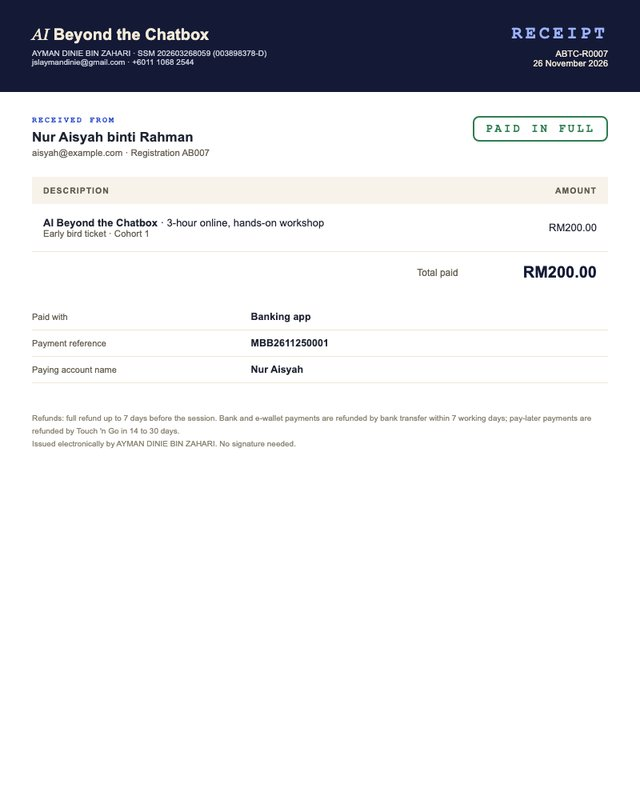
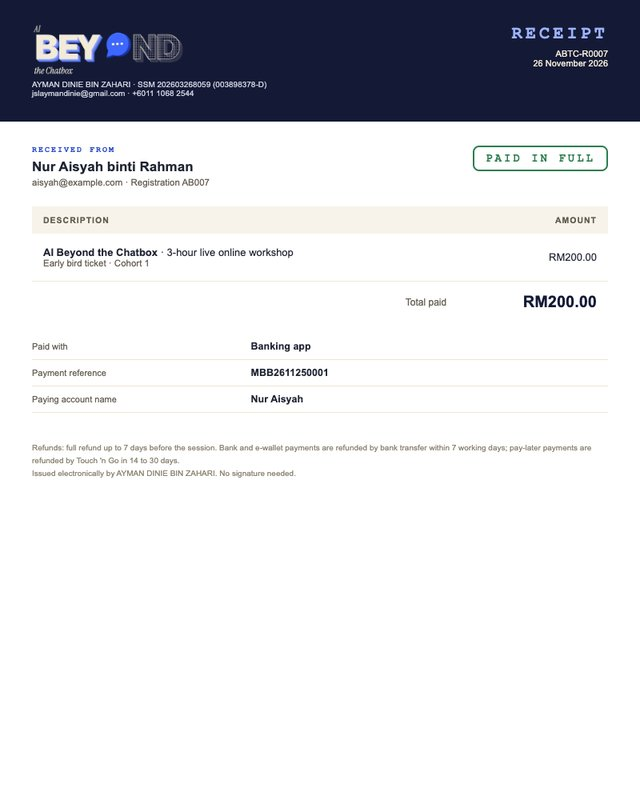
Use the BEYOND wordmark in site header and footer, emails and receipt; fix Designs & links spacing

diff --git a/index.html b/index.html
@@ -616,6 +616,8 @@ footer .sel{color:var(--cream)}
   .js .rv,.js .in-a{opacity:1;transform:none}.js .split .wd>span{transform:none}
   .statement,.lap{height:auto}.sticky{position:static;height:auto;padding-block:96px}.lap{--p:1!important}.say .w{opacity:1!important}.sstep{opacity:1}
 }
+.brand.logo{display:block;line-height:0}.brand.logo img{height:auto;display:block}
+@media (max-width:420px){header.top .brand.logo img{width:124px}}
 </style></head><body>
 <script>document.documentElement.classList.add('js')</script>
 <svg width="0" height="0" style="position:absolute" aria-hidden="true"><defs>
@@ -652,7 +654,7 @@ footer .sel{color:var(--cream)}
 <symbol id="i-download" viewBox="0 0 24 24"><path d="M21 15v4a2 2 0 0 1-2 2H5a2 2 0 0 1-2-2v-4" /> <polyline points="7 10 12 15 17 10" /> <line x1="12" x2="12" y1="15" y2="3" /></symbol><symbol id="i-mail" viewBox="0 0 24 24"><rect width="20" height="16" x="2" y="4" rx="2" /> <path d="m22 7-8.97 5.7a1.94 1.94 0 0 1-2.06 0L2 7" /></symbol><symbol id="i-ext" viewBox="0 0 24 24"><path d="M7 7h10v10" /> <path d="M7 17 17 7" /></symbol><symbol id="i-user" viewBox="0 0 24 24"><circle cx="12" cy="8" r="5" /> <path d="M20 21a8 8 0 0 0-16 0" /></symbol><symbol id="i-whatsapp" viewBox="0 0 24 24"><path fill="currentColor" stroke="none" d="M17.472 14.382c-.297-.149-1.758-.867-2.03-.967-.273-.099-.471-.148-.67.15-.197.297-.767.966-.94 1.164-.173.199-.347.223-.644.075-.297-.15-1.255-.463-2.39-1.475-.883-.788-1.48-1.761-1.653-2.059-.173-.297-.018-.458.13-.606.134-.133.298-.347.446-.52.149-.174.198-.298.298-.497.099-.198.05-.371-.025-.52-.075-.149-.669-1.612-.916-2.207-.242-.579-.487-.5-.669-.51-.173-.008-.371-.01-.57-.01-.198 0-.52.074-.792.372-.272.297-1.04 1.016-1.04 2.479 0 1.462 1.065 2.875 1.213 3.074.149.198 2.096 3.2 5.077 4.487.709.306 1.262.489 1.694.625.712.227 1.36.195 1.871.118.571-.085 1.758-.719 2.006-1.413.248-.694.248-1.289.173-1.413-.074-.124-.272-.198-.57-.347m-5.421 7.403h-.004a9.87 9.87 0 01-5.031-1.378l-.361-.214-3.741.982.998-3.648-.235-.374a9.86 9.86 0 01-1.51-5.26c.001-5.45 4.436-9.884 9.888-9.884 2.64 0 5.122 1.03 6.988 2.898a9.825 9.825 0 012.893 6.994c-.003 5.45-4.437 9.884-9.885 9.884m8.413-18.297A11.815 11.815 0 0012.05 0C5.495 0 .16 5.335.157 11.892c0 2.096.547 4.142 1.588 5.945L.057 24l6.305-1.654a11.882 11.882 0 005.683 1.448h.005c6.554 0 11.89-5.335 11.893-11.893a11.821 11.821 0 00-3.48-8.413Z"/></symbol></defs></svg>
 
 <header class="top" id="top"><div class="wrap">
-<a class="brand" href="#"><i>AI</i> Beyond the Chatbox</a>
+<a class="brand logo" href="#" aria-label="AI Beyond the Chatbox, back to top"><img src="assets/brand/logo-wide-small.png" alt="AI Beyond the Chatbox" width="150" height="51"></a>
 <nav aria-label="Main"><a class="lk" href="#how">How it works</a><a class="lk" href="#trainers">Trainers</a><a class="lk" href="#price">Price</a><a class="lk" href="#faq">FAQ</a>
 <span class="pill" id="seatPill" hidden><i class="dot"></i><span id="seatTxt"></span></span>
 <a class="btn sm" href="#register">Register <span class="ar">→</span></a></nav>
@@ -897,7 +899,7 @@ footer .sel{color:var(--cream)}
 
 <footer><div class="fword" aria-hidden="true"><span>AI BEYOND THE CHATBOX · AI BEYOND THE CHATBOX ·</span></div><div class="wrap">
 <div class="fgrid">
-<div><a class="brand" href="#"><i>AI</i> Beyond the Chatbox</a><p style="margin-top:12px;max-width:36ch">A 3-hour online, hands-on workshop. Build something you'll actually use.</p></div>
+<div><a class="brand logo" href="#" aria-label="AI Beyond the Chatbox, back to top"><img src="assets/brand/logo-wordmark-small.png" alt="AI Beyond the Chatbox" width="170" height="156"></a><p style="margin-top:12px;max-width:36ch">A 3-hour online, hands-on workshop. Build something you'll actually use.</p></div>
 <div><h5 class="mono">Contact</h5><p><a class="fl" href="https://wa.me/601110682544" target="_blank" rel="noopener"><svg class="ico"><use href="#i-whatsapp"/></svg>+6011 1068 2544</a></p><p><a class="fl" href="mailto:jslaymandinie@gmail.com"><svg class="ico"><use href="#i-mail"/></svg>jslaymandinie@gmail.com</a></p></div>
 <div><h5 class="mono">Organiser</h5><p><a class="fl" href="https://aymandinie.github.io/portfolio/" target="_blank" rel="noopener"><svg class="ico"><use href="#i-user"/></svg>Ayman Dinie · portfolio</a></p><p>AYMAN DINIE BIN ZAHARI</p><p>SSM 202603268059 (003898378-D)</p></div>
 </div>

diff --git a/admin/index.html b/admin/index.html
@@ -116,6 +116,7 @@ iframe{width:100%;height:calc(100vh - 40px);min-height:520px;border:0;border-rad
 .statusmap{display:grid;gap:8px}
 .statusmap div{display:grid;grid-template-columns:150px minmax(0,1fr);gap:12px;align-items:center}
 .mobilenav{display:none}
+.dwrap{display:grid;gap:22px}.dwrap .sec-title{margin:8px 0 -8px}.dwrap .panel h2{margin-bottom:10px}
 .dgrid{display:grid;grid-template-columns:repeat(auto-fill,minmax(250px,1fr));gap:14px}
 .dcard{background:var(--white);border:1.5px solid var(--line);border-radius:22px;overflow:hidden;display:flex;flex-direction:column}
 .dcard .thumb{display:block;aspect-ratio:4/3;background:var(--tint);overflow:hidden}
@@ -390,7 +391,8 @@ function cohortForm(c) {
 const BRAND_GUIDE = 'https://claude.ai/artifact/5k6cxUk8u7m5rvjFmWxbpo';
 const REPO = 'https://github.com/aymandinie/ai-beyond-the-chatbox';
 function designs() {
-  const L = D.links, site = L.site, A = site + 'assets/brand/';
+  const L = Object.assign({}, D.links), site = L.site, A = site + 'assets/brand/';
+  L.verify = L.verify || site + 'verify/'; L.gallery = L.gallery || site + 'emails/';
   const c = D.cohorts.find(x => x.Code === COHORT) || {};
   const set = k => (D.settings.find(x => x.key === k) || {}).value || '';
   const open = (href, label = 'Open') => href ? `<a class="btn ghost sm" href="${esc(href)}" target="_blank" rel="noopener">${ico('external-link')}${label}</a>` : '';
@@ -398,7 +400,7 @@ function designs() {
   const link = (icon, title, url, note) => url
     ? `<div class="lrow">${ico(icon)}<div><b>${title}</b><small>${esc(note || url.replace(/^https?:\/\//, ''))}</small></div><button class="x" data-copy="${esc(url)}" title="Copy link" aria-label="Copy ${esc(title)} link">${ico('copy')}</button><a class="x" href="${esc(url)}" target="_blank" rel="noopener" title="Open" aria-label="Open ${esc(title)}">${ico('arrow-up-right')}</a></div>`
     : `<div class="lrow off">${ico(icon)}<div><b>${title}</b><small>${esc(note || 'Not set yet')}</small></div></div>`;
-  return `<p class="mono sec-title">Designs</p>
+  return `<div class="dwrap"><p class="mono sec-title">Designs</p>
   <div class="dgrid">
     ${card(A + 'poster.jpg', 'Poster', 'The launch poster (Option 8 Final). Full-size PNGs are in the Posters folder on your Mac.', open(A + 'poster.jpg', 'Full image'))}
     ${card(A + 'certificate-sample.jpg', 'Certificate', 'Sent after the session. Name, date and certificate ID are filled in for each person.', `<button class="btn ghost sm" data-certprev>${ico('eye')}Preview PDF</button>${open(L.certTemplate, 'Template')}`, 'fit')}
@@ -438,7 +440,7 @@ function designs() {
     <li>Slides: <code>5 Deliverables/PERSONAL AI Beyond the Chatbox Deck v1.html</code></li>
     <li>Script to paste into Apps Script: <code>4 Working/Registration/apps-script/All in one.gs</code></li>
     <li>Wordmark and certificate artwork: <code>5 Deliverables/GitHub Site/assets/brand/</code></li>
-  </ul></div>`;
+  </ul></div></div>`;
 }
 
 /* ---------- emails ---------- */

diff --git a/emails/howToPay.html b/emails/howToPay.html
@@ -10,8 +10,8 @@ a{color:#2B4ACB}
 <div style="display:none;max-height:0;overflow:hidden;opacity:0">Thanks for registering. We'll confirm your seat within 24 hours.&#8199;&#847;&#8199;&#847;&#8199;&#847;</div>
 <table role="presentation" width="100%" cellpadding="0" cellspacing="0" style="background:#F4EFE4"><tr><td align="center" style="padding:28px 12px 8px">
 <table role="presentation" width="600" cellpadding="0" cellspacing="0" style="width:600px;max-width:100%">
-<tr><td class="pad" style="padding:0 6px 14px;font:bold 15px/1 -apple-system,'Segoe UI',Helvetica,Arial,sans-serif;color:#1B2140"><i style="font:italic 18px/1 Georgia,serif">AI</i>&nbsp;Beyond the Chatbox</td></tr>
 <tr><td class="pad" style="background:#141A36;border-radius:22px 22px 0 0;padding:30px 38px 28px">
+<img src="../assets/mail/logo-wide.png" width="170" alt="AI Beyond the Chatbox" style="display:block;width:170px;max-width:60%;height:auto;border:0;margin:0 0 24px">
 <table role="presentation" cellpadding="0" cellspacing="0"><tr><td style="padding-right:12px"><img src="../assets/mail/chip-clock.png" width="40" height="40" alt="" style="display:inline-block;width:40px;height:40px;border:0;vertical-align:middle"></td>
 <td style="font:bold 12px/1 'Courier New',Courier,monospace;letter-spacing:2px;text-transform:uppercase;color:#9DB2FF">Registration received</td></tr></table>
 <p class="ttl" style="margin:18px 0 0;font:italic 34px/1.1 Georgia,'Times New Roman',serif;color:#F3EAD8">Thanks, Aisyah. We're checking your payment</p>

diff --git a/emails/notFound.html b/emails/notFound.html
@@ -10,8 +10,8 @@ a{color:#2B4ACB}
 <div style="display:none;max-height:0;overflow:hidden;opacity:0">Reply with your receipt and we'll confirm your seat.&#8199;&#847;&#8199;&#847;&#8199;&#847;</div>
 <table role="presentation" width="100%" cellpadding="0" cellspacing="0" style="background:#F4EFE4"><tr><td align="center" style="padding:28px 12px 8px">
 <table role="presentation" width="600" cellpadding="0" cellspacing="0" style="width:600px;max-width:100%">
-<tr><td class="pad" style="padding:0 6px 14px;font:bold 15px/1 -apple-system,'Segoe UI',Helvetica,Arial,sans-serif;color:#1B2140"><i style="font:italic 18px/1 Georgia,serif">AI</i>&nbsp;Beyond the Chatbox</td></tr>
 <tr><td class="pad" style="background:#141A36;border-radius:22px 22px 0 0;padding:30px 38px 28px">
+<img src="../assets/mail/logo-wide.png" width="170" alt="AI Beyond the Chatbox" style="display:block;width:170px;max-width:60%;height:auto;border:0;margin:0 0 24px">
 <table role="presentation" cellpadding="0" cellspacing="0"><tr><td style="padding-right:12px"><img src="../assets/mail/chip-circle-alert.png" width="40" height="40" alt="" style="display:inline-block;width:40px;height:40px;border:0;vertical-align:middle"></td>
 <td style="font:bold 12px/1 'Courier New',Courier,monospace;letter-spacing:2px;text-transform:uppercase;color:#9DB2FF">Payment check</td></tr></table>
 <p class="ttl" style="margin:18px 0 0;font:italic 34px/1.1 Georgia,'Times New Roman',serif;color:#F3EAD8">We couldn't find your payment</p>

diff --git a/emails/prep.html b/emails/prep.html
@@ -10,8 +10,8 @@ a{color:#2B4ACB}
 <div style="display:none;max-height:0;overflow:hidden;opacity:0">Three small things, whenever you have a moment.&#8199;&#847;&#8199;&#847;&#8199;&#847;</div>
 <table role="presentation" width="100%" cellpadding="0" cellspacing="0" style="background:#F4EFE4"><tr><td align="center" style="padding:28px 12px 8px">
 <table role="presentation" width="600" cellpadding="0" cellspacing="0" style="width:600px;max-width:100%">
-<tr><td class="pad" style="padding:0 6px 14px;font:bold 15px/1 -apple-system,'Segoe UI',Helvetica,Arial,sans-serif;color:#1B2140"><i style="font:italic 18px/1 Georgia,serif">AI</i>&nbsp;Beyond the Chatbox</td></tr>
 <tr><td class="pad" style="background:#141A36;border-radius:22px 22px 0 0;padding:30px 38px 28px">
+<img src="../assets/mail/logo-wide.png" width="170" alt="AI Beyond the Chatbox" style="display:block;width:170px;max-width:60%;height:auto;border:0;margin:0 0 24px">
 <table role="presentation" cellpadding="0" cellspacing="0"><tr><td style="padding-right:12px"><img src="../assets/mail/chip-calendar-check.png" width="40" height="40" alt="" style="display:inline-block;width:40px;height:40px;border:0;vertical-align:middle"></td>
 <td style="font:bold 12px/1 'Courier New',Courier,monospace;letter-spacing:2px;text-transform:uppercase;color:#9DB2FF">One week to go</td></tr></table>
 <p class="ttl" style="margin:18px 0 0;font:italic 34px/1.1 Georgia,'Times New Roman',serif;color:#F3EAD8">See you next week, Aisyah</p>

diff --git a/emails/noShow.html b/emails/noShow.html
@@ -10,8 +10,8 @@ a{color:#2B4ACB}
 <div style="display:none;max-height:0;overflow:hidden;opacity:0">The one-page summary, so you can still start.&#8199;&#847;&#8199;&#847;&#8199;&#847;</div>
 <table role="presentation" width="100%" cellpadding="0" cellspacing="0" style="background:#F4EFE4"><tr><td align="center" style="padding:28px 12px 8px">
 <table role="presentation" width="600" cellpadding="0" cellspacing="0" style="width:600px;max-width:100%">
-<tr><td class="pad" style="padding:0 6px 14px;font:bold 15px/1 -apple-system,'Segoe UI',Helvetica,Arial,sans-serif;color:#1B2140"><i style="font:italic 18px/1 Georgia,serif">AI</i>&nbsp;Beyond the Chatbox</td></tr>
 <tr><td class="pad" style="background:#141A36;border-radius:22px 22px 0 0;padding:30px 38px 28px">
+<img src="../assets/mail/logo-wide.png" width="170" alt="AI Beyond the Chatbox" style="display:block;width:170px;max-width:60%;height:auto;border:0;margin:0 0 24px">
 <table role="presentation" cellpadding="0" cellspacing="0"><tr><td style="padding-right:12px"><img src="../assets/mail/chip-message-circle.png" width="40" height="40" alt="" style="display:inline-block;width:40px;height:40px;border:0;vertical-align:middle"></td>
 <td style="font:bold 12px/1 'Courier New',Courier,monospace;letter-spacing:2px;text-transform:uppercase;color:#9DB2FF">We missed you</td></tr></table>
 <p class="ttl" style="margin:18px 0 0;font:italic 34px/1.1 Georgia,'Times New Roman',serif;color:#F3EAD8">Sorry we missed you, Aisyah</p>

diff --git a/emails/payReminder.html b/emails/payReminder.html
@@ -10,8 +10,8 @@ a{color:#2B4ACB}
 <div style="display:none;max-height:0;overflow:hidden;opacity:0">Reply with your receipt, or pay to keep your seat.&#8199;&#847;&#8199;&#847;&#8199;&#847;</div>
 <table role="presentation" width="100%" cellpadding="0" cellspacing="0" style="background:#F4EFE4"><tr><td align="center" style="padding:28px 12px 8px">
 <table role="presentation" width="600" cellpadding="0" cellspacing="0" style="width:600px;max-width:100%">
-<tr><td class="pad" style="padding:0 6px 14px;font:bold 15px/1 -apple-system,'Segoe UI',Helvetica,Arial,sans-serif;color:#1B2140"><i style="font:italic 18px/1 Georgia,serif">AI</i>&nbsp;Beyond the Chatbox</td></tr>
 <tr><td class="pad" style="background:#141A36;border-radius:22px 22px 0 0;padding:30px 38px 28px">
+<img src="../assets/mail/logo-wide.png" width="170" alt="AI Beyond the Chatbox" style="display:block;width:170px;max-width:60%;height:auto;border:0;margin:0 0 24px">
 <table role="presentation" cellpadding="0" cellspacing="0"><tr><td style="padding-right:12px"><img src="../assets/mail/chip-bell-ring.png" width="40" height="40" alt="" style="display:inline-block;width:40px;height:40px;border:0;vertical-align:middle"></td>
 <td style="font:bold 12px/1 'Courier New',Courier,monospace;letter-spacing:2px;text-transform:uppercase;color:#9DB2FF">Reminder</td></tr></table>
 <p class="ttl" style="margin:18px 0 0;font:italic 34px/1.1 Georgia,'Times New Roman',serif;color:#F3EAD8">We still can't find your payment</p>

diff --git a/emails/feedbackReminder.html b/emails/feedbackReminder.html
@@ -10,8 +10,8 @@ a{color:#2B4ACB}
 <div style="display:none;max-height:0;overflow:hidden;opacity:0">Your certificate is waiting on one short form.&#8199;&#847;&#8199;&#847;&#8199;&#847;</div>
 <table role="presentation" width="100%" cellpadding="0" cellspacing="0" style="background:#F4EFE4"><tr><td align="center" style="padding:28px 12px 8px">
 <table role="presentation" width="600" cellpadding="0" cellspacing="0" style="width:600px;max-width:100%">
-<tr><td class="pad" style="padding:0 6px 14px;font:bold 15px/1 -apple-system,'Segoe UI',Helvetica,Arial,sans-serif;color:#1B2140"><i style="font:italic 18px/1 Georgia,serif">AI</i>&nbsp;Beyond the Chatbox</td></tr>
 <tr><td class="pad" style="background:#141A36;border-radius:22px 22px 0 0;padding:30px 38px 28px">
+<img src="../assets/mail/logo-wide.png" width="170" alt="AI Beyond the Chatbox" style="display:block;width:170px;max-width:60%;height:auto;border:0;margin:0 0 24px">
 <table role="presentation" cellpadding="0" cellspacing="0"><tr><td style="padding-right:12px"><img src="../assets/mail/chip-star.png" width="40" height="40" alt="" style="display:inline-block;width:40px;height:40px;border:0;vertical-align:middle"></td>
 <td style="font:bold 12px/1 'Courier New',Courier,monospace;letter-spacing:2px;text-transform:uppercase;color:#9DB2FF">Your certificate</td></tr></table>
 <p class="ttl" style="margin:18px 0 0;font:italic 34px/1.1 Georgia,'Times New Roman',serif;color:#F3EAD8">Two minutes, then it's yours</p>

diff --git a/emails/confirmed.html b/emails/confirmed.html
@@ -10,8 +10,8 @@ a{color:#2B4ACB}
 <div style="display:none;max-height:0;overflow:hidden;opacity:0">Seat confirmed. Your receipt is attached.&#8199;&#847;&#8199;&#847;&#8199;&#847;</div>
 <table role="presentation" width="100%" cellpadding="0" cellspacing="0" style="background:#F4EFE4"><tr><td align="center" style="padding:28px 12px 8px">
 <table role="presentation" width="600" cellpadding="0" cellspacing="0" style="width:600px;max-width:100%">
-<tr><td class="pad" style="padding:0 6px 14px;font:bold 15px/1 -apple-system,'Segoe UI',Helvetica,Arial,sans-serif;color:#1B2140"><i style="font:italic 18px/1 Georgia,serif">AI</i>&nbsp;Beyond the Chatbox</td></tr>
 <tr><td class="pad" style="background:#141A36;border-radius:22px 22px 0 0;padding:30px 38px 28px">
+<img src="../assets/mail/logo-wide.png" width="170" alt="AI Beyond the Chatbox" style="display:block;width:170px;max-width:60%;height:auto;border:0;margin:0 0 24px">
 <table role="presentation" cellpadding="0" cellspacing="0"><tr><td style="padding-right:12px"><img src="../assets/mail/chip-circle-check.png" width="40" height="40" alt="" style="display:inline-block;width:40px;height:40px;border:0;vertical-align:middle"></td>
 <td style="font:bold 12px/1 'Courier New',Courier,monospace;letter-spacing:2px;text-transform:uppercase;color:#9DB2FF">Seat confirmed</td></tr></table>
 <p class="ttl" style="margin:18px 0 0;font:italic 34px/1.1 Georgia,'Times New Roman',serif;color:#F3EAD8">You're in, Aisyah</p>

diff --git a/emails/released.html b/emails/released.html
@@ -10,8 +10,8 @@ a{color:#2B4ACB}
 <div style="display:none;max-height:0;overflow:hidden;opacity:0">No payment was matched within 72 hours.&#8199;&#847;&#8199;&#847;&#8199;&#847;</div>
 <table role="presentation" width="100%" cellpadding="0" cellspacing="0" style="background:#F4EFE4"><tr><td align="center" style="padding:28px 12px 8px">
 <table role="presentation" width="600" cellpadding="0" cellspacing="0" style="width:600px;max-width:100%">
-<tr><td class="pad" style="padding:0 6px 14px;font:bold 15px/1 -apple-system,'Segoe UI',Helvetica,Arial,sans-serif;color:#1B2140"><i style="font:italic 18px/1 Georgia,serif">AI</i>&nbsp;Beyond the Chatbox</td></tr>
 <tr><td class="pad" style="background:#141A36;border-radius:22px 22px 0 0;padding:30px 38px 28px">
+<img src="../assets/mail/logo-wide.png" width="170" alt="AI Beyond the Chatbox" style="display:block;width:170px;max-width:60%;height:auto;border:0;margin:0 0 24px">
 <table role="presentation" cellpadding="0" cellspacing="0"><tr><td style="padding-right:12px"><img src="../assets/mail/chip-rotate-ccw.png" width="40" height="40" alt="" style="display:inline-block;width:40px;height:40px;border:0;vertical-align:middle"></td>
 <td style="font:bold 12px/1 'Courier New',Courier,monospace;letter-spacing:2px;text-transform:uppercase;color:#9DB2FF">Seat released</td></tr></table>
 <p class="ttl" style="margin:18px 0 0;font:italic 34px/1.1 Georgia,'Times New Roman',serif;color:#F3EAD8">Your seat was released</p>

diff --git a/emails/thankYou.html b/emails/thankYou.html
@@ -10,8 +10,8 @@ a{color:#2B4ACB}
 <div style="display:none;max-height:0;overflow:hidden;opacity:0">Everything from today, in one place.&#8199;&#847;&#8199;&#847;&#8199;&#847;</div>
 <table role="presentation" width="100%" cellpadding="0" cellspacing="0" style="background:#F4EFE4"><tr><td align="center" style="padding:28px 12px 8px">
 <table role="presentation" width="600" cellpadding="0" cellspacing="0" style="width:600px;max-width:100%">
-<tr><td class="pad" style="padding:0 6px 14px;font:bold 15px/1 -apple-system,'Segoe UI',Helvetica,Arial,sans-serif;color:#1B2140"><i style="font:italic 18px/1 Georgia,serif">AI</i>&nbsp;Beyond the Chatbox</td></tr>
 <tr><td class="pad" style="background:#141A36;border-radius:22px 22px 0 0;padding:30px 38px 28px">
+<img src="../assets/mail/logo-wide.png" width="170" alt="AI Beyond the Chatbox" style="display:block;width:170px;max-width:60%;height:auto;border:0;margin:0 0 24px">
 <table role="presentation" cellpadding="0" cellspacing="0"><tr><td style="padding-right:12px"><img src="../assets/mail/chip-party-popper.png" width="40" height="40" alt="" style="display:inline-block;width:40px;height:40px;border:0;vertical-align:middle"></td>
 <td style="font:bold 12px/1 'Courier New',Courier,monospace;letter-spacing:2px;text-transform:uppercase;color:#9DB2FF">Thank you</td></tr></table>
 <p class="ttl" style="margin:18px 0 0;font:italic 34px/1.1 Georgia,'Times New Roman',serif;color:#F3EAD8">You built something today</p>

diff --git a/emails/dayBefore.html b/emails/dayBefore.html
@@ -10,8 +10,8 @@ a{color:#2B4ACB}
 <div style="display:none;max-height:0;overflow:hidden;opacity:0">Starts 9:00 am to 12:00 pm (Malaysia time).&#8199;&#847;&#8199;&#847;&#8199;&#847;</div>
 <table role="presentation" width="100%" cellpadding="0" cellspacing="0" style="background:#F4EFE4"><tr><td align="center" style="padding:28px 12px 8px">
 <table role="presentation" width="600" cellpadding="0" cellspacing="0" style="width:600px;max-width:100%">
-<tr><td class="pad" style="padding:0 6px 14px;font:bold 15px/1 -apple-system,'Segoe UI',Helvetica,Arial,sans-serif;color:#1B2140"><i style="font:italic 18px/1 Georgia,serif">AI</i>&nbsp;Beyond the Chatbox</td></tr>
 <tr><td class="pad" style="background:#141A36;border-radius:22px 22px 0 0;padding:30px 38px 28px">
+<img src="../assets/mail/logo-wide.png" width="170" alt="AI Beyond the Chatbox" style="display:block;width:170px;max-width:60%;height:auto;border:0;margin:0 0 24px">
 <table role="presentation" cellpadding="0" cellspacing="0"><tr><td style="padding-right:12px"><img src="../assets/mail/chip-video.png" width="40" height="40" alt="" style="display:inline-block;width:40px;height:40px;border:0;vertical-align:middle"></td>
 <td style="font:bold 12px/1 'Courier New',Courier,monospace;letter-spacing:2px;text-transform:uppercase;color:#9DB2FF">Tomorrow</td></tr></table>
 <p class="ttl" style="margin:18px 0 0;font:italic 34px/1.1 Georgia,'Times New Roman',serif;color:#F3EAD8">See you tomorrow, Aisyah</p>
